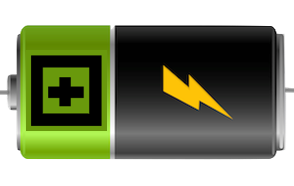
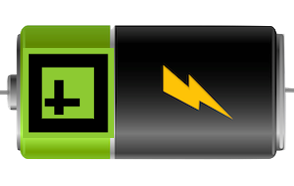
resetting the AR scene after a change in circuit

Changed region(s): [[0.0612, 0.2419, 0.398, 0.7527]]

diff --git a/web/three.js/ar-spark.js b/web/three.js/ar-spark.js
@@ -2,6 +2,7 @@ var markerRootParent;
 var arController;
 var arScale;
 var markerID;
+var arRenderFlag = true;
 //window.ARThreeOnLoad = function() {
 function JsArInit() {
 	ARController.getUserMediaThreeScene({maxARVideoSize: 800, cameraParam: 'lib/jsartoolkit5-master/examples/Data/camera_para.dat', 
@@ -35,7 +36,7 @@ function JsArInit() {
 		markerRoot = new THREE.Mesh();
 		var markerLoaded = false;
 		// Testing Pattern marker:
-		arController.loadMarker('markers/plus16.pat', function(markerId) {
+		arController.loadMarker('markers/plus16v3.pat', function(markerId) {
 			markerLoaded = true;
 			console.log(markerId);
 			markerID = markerId;
@@ -77,6 +78,7 @@ function JsArInit() {
 		arController.addEventListener('getMarker', function(ev) {
 			if (ev.data.marker.id == markerID) {   
 				markerDetectedFlag = true;
+				arRenderFlag = true;
 			}
 		});
 
@@ -112,11 +114,11 @@ if (window.ARController && ARController.getUserMediaThreeScene) {
 }
 
 function updateAR() {
-	//markerRootParent = arController.createThreeBarcodeMarker(20, 1);
 	scene.remove(markerRootParent);
+	arRenderFlag = false;
 	initComponents();
 	markerRootParent.add(markerRoot);
-	scene.add(markerRootParent);
+	scene.add(markerRootParent);	
 }
 
 var createBox = function() {

diff --git a/web/dart/circuitAnalysis/Circuit.dart b/web/dart/circuitAnalysis/Circuit.dart
@@ -138,8 +138,6 @@ class Circuit {
    * 5. called by marker.touchup method
    */
   void sendData() {
-   
-    print("send data");
     //var myObj = new JsArray();
     var myObj = [];
     //findConnectedComponents();
@@ -210,6 +208,10 @@ class Circuit {
       if (theApp.model != null) theApp.help.show();
       var data = new JsObject(context['sendData'],[myObj]); // instantiate a JS "data" object
       data.callMethod('doSendData'); // call its method "doSendData"
+      new Future.delayed(const Duration(milliseconds:200), () {
+        data.callMethod('doSendData');
+      });
+
     }
   }
   

diff --git a/web/three.js/main.js b/web/three.js/main.js
@@ -25,7 +25,7 @@ var twoD = true; //electron movement is either 2D (z=0) or 3D
 
 // Dynamic FLAGS
 var updateFlag = false;  //(launch): when updating the circuit, updateFlag = true => pause the rendering while the circuit object is being parsed
-var markerDetectedFlag = false;  //not being used now
+var markerDetectedFlag = false;  //to track if a marker is being detected at a time
 var freezeFlag = false;
 
 // COLORS:

diff --git a/web/three.js/artoolkit.three-spark.js b/web/three.js/artoolkit.three-spark.js
@@ -166,7 +166,7 @@
 					renderer.autoClear = false;
 					renderer.clear();
 					if (!freezeFlag) renderer.render(this.videoScene, this.videoCamera);
-					renderer.render(this.scene, this.camera);
+					if (arRenderFlag) renderer.render(this.scene, this.camera);
 					renderer.autoClear = ac;
 				}
 			};

diff --git a/web/three.js/elements.js b/web/three.js/elements.js
@@ -339,6 +339,7 @@ function freezeAR() {
 		button.style.backgroundSize = "100%";
 
 		camera.position.set(0, 0, 0);
+		arRenderFlag = true;
 	}
 
 	freezeFlag = !freezeFlag;
